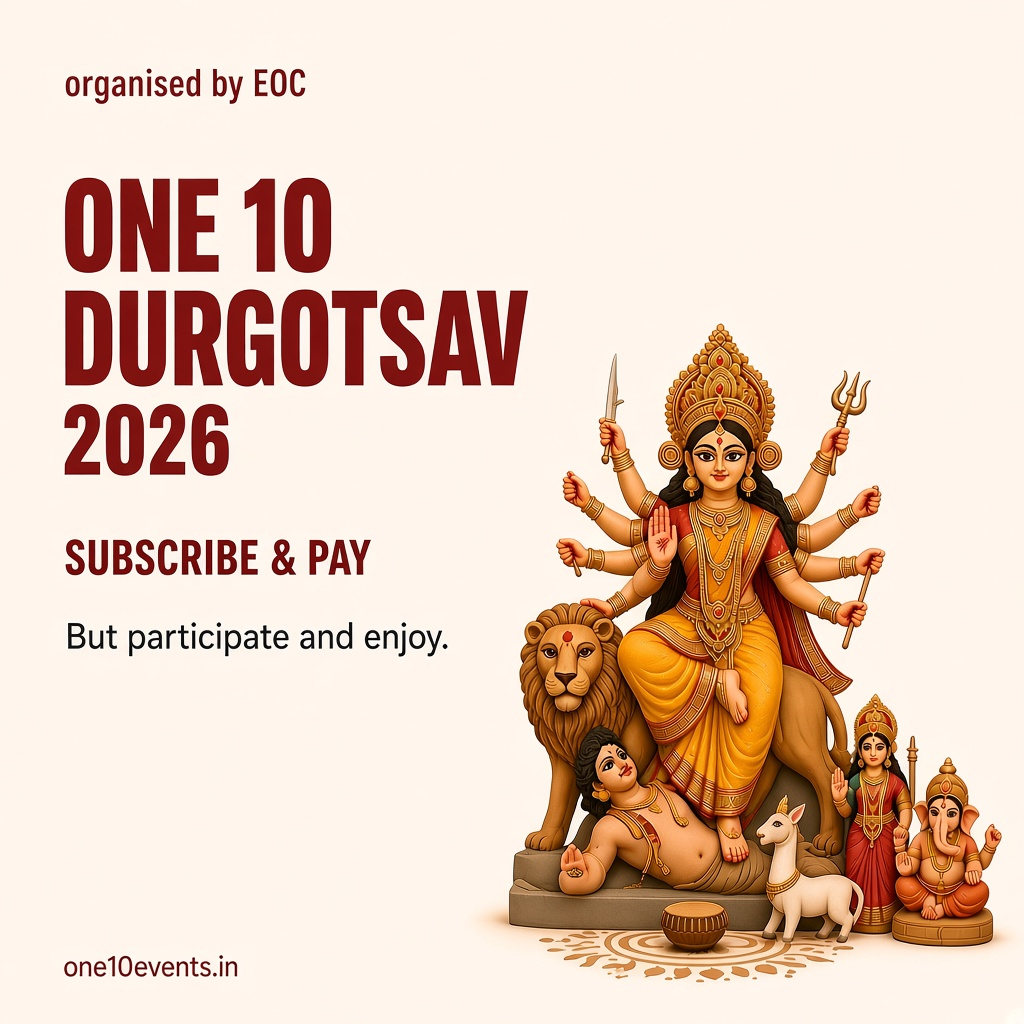
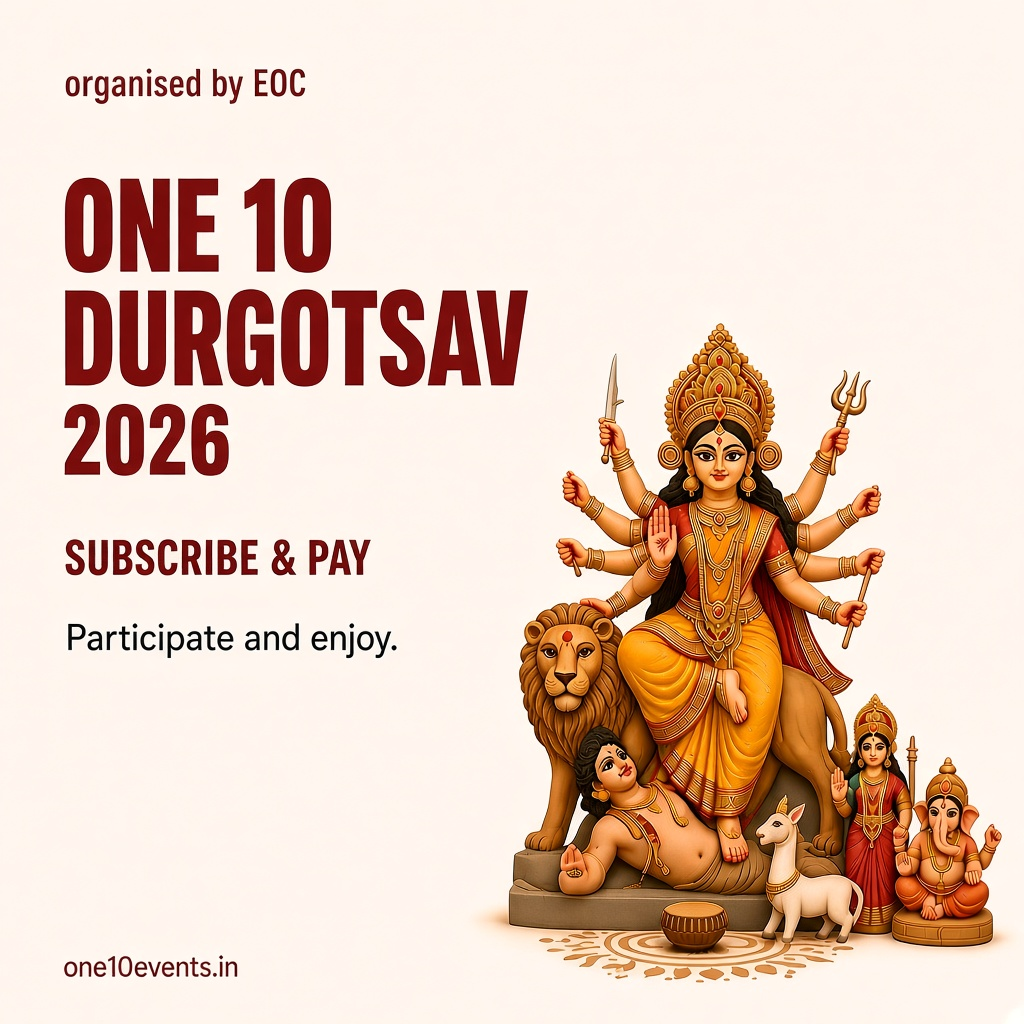
Drop But from invite share line
Copy is now Participate and enjoy on page and PNG poster.

diff --git a/frontend/src/pages/public/Invite.jsx b/frontend/src/pages/public/Invite.jsx
@@ -38,7 +38,7 @@ export default function Invite() {
           </Link>
 
           <p className="mt-8 text-lg leading-snug text-[#2A1215]/85 sm:text-xl">
-            But participate and enjoy.
+            Participate and enjoy.
           </p>
         </div>
 
